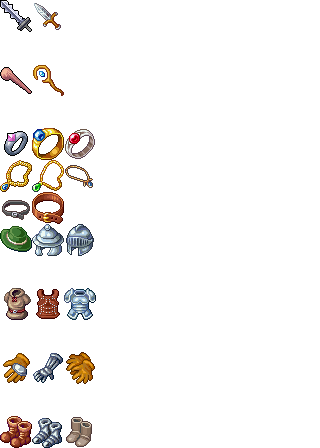
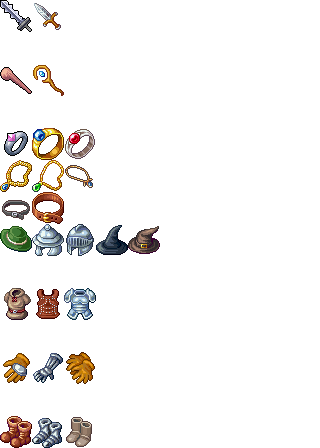
Tweak prices and bonuses of equipment

Changed region(s): [[0.2812, 0.5, 0.5, 0.5938]]

diff --git a/shared/Equipments.ts b/shared/Equipments.ts
@@ -9,10 +9,10 @@ equipments[0] = new BaseEquipment({
     name: "Jagged Sword",
     description: "",
     frame: 0,
-    effects: [{stat: Stat.ATK, value: 15}],
+    effects: [{stat: Stat.ATK, value: 100}, {stat: Stat.DEF, value: 15}],
     slot: EquipmentSlot.WEAPON,
-    effort: 15,
-    minLevel: 5,
+    effort: 45,
+    minLevel: 15,
     classes: [Class.WARRIOR],
 });
 
@@ -22,7 +22,7 @@ equipments[1] = new BaseEquipment({
     name: "Basic staff",
     description: "",
     frame: 20,
-    effects: [{stat: Stat.SPATK, value: 5}],
+    effects: [{stat: Stat.SPATK, value: 10}, {stat: Stat.MP, value: 15}],
     slot: EquipmentSlot.WEAPON,
     effort: 9,
     minLevel: 1,
@@ -35,9 +35,9 @@ equipments[2] = new BaseEquipment({
     name: "Ring of the Soul",
     description: "",
     frame: 40,
-    effects: [{stat: Stat.MP, value: 200}],
+    effects: [{stat: Stat.MP, value: 150}],
     slot: EquipmentSlot.LEFT_RING,
-    effort: 40,
+    effort: 50,
     minLevel: 1,
     classes: [Class.BLACK_MAGE, Class.WHITE_MAGE],
 });
@@ -71,7 +71,7 @@ equipments[5] = new BaseEquipment({
     name: "Dagger",
     description: "",
     frame: 1,
-    effects: [{stat: Stat.ATK, value: 3}],
+    effects: [{stat: Stat.ATK, value: 10}],
     slot: EquipmentSlot.WEAPON,
     effort: 3,
     minLevel: 1,
@@ -83,7 +83,7 @@ equipments[6] = new BaseEquipment({
     name: "Traveler's hat",
     description: "",
     frame: 70,
-    effects: [{stat: Stat.DEF, value: 2}],
+    effects: [{stat: Stat.DEF, value: 10}],
     slot: EquipmentSlot.HELMET,
     effort: 3,
     minLevel: 1,
@@ -94,7 +94,7 @@ equipments[7] = new BaseEquipment({
     name: "Cloth tunic",
     description: "",
     frame: 90,
-    effects: [{stat: Stat.DEF, value: 4}],
+    effects: [{stat: Stat.DEF, value: 10}],
     slot: EquipmentSlot.ARMOR,
     effort: 4,
     minLevel: 1,
@@ -105,7 +105,7 @@ equipments[8] = new BaseEquipment({
     name: "Hardened gloves",
     description: "",
     frame: 110,
-    effects: [{stat: Stat.DEF, value: 10}],
+    effects: [{stat: Stat.DEF, value: 20}, {stat: Stat.SPDEF, value: 10}],
     slot: EquipmentSlot.GLOVES,
     effort: 10,
     minLevel: 5,
@@ -116,7 +116,7 @@ equipments[9] = new BaseEquipment({
     name: "Sturdy boots",
     description: "",
     frame: 130,
-    effects: [{stat: Stat.DEF, value: 8}],
+    effects: [{stat: Stat.DEF, value: 15}, {stat: Stat.SPDEF, value: 15}],
     slot: EquipmentSlot.BOOTS,
     effort: 10,
     minLevel: 5,
@@ -138,7 +138,7 @@ equipments[11] = new BaseEquipment({
     name: "Helmet",
     description: "",
     frame: 71,
-    effects: [{stat: Stat.DEF, value: 15}],
+    effects: [{stat: Stat.DEF, value: 30}, {stat: Stat.SPDEF, value: 5}],
     slot: EquipmentSlot.HELMET,
     effort: 11,
     minLevel: 5,
@@ -150,7 +150,7 @@ equipments[12] = new BaseEquipment({
     name: "Leather armor",
     description: "",
     frame: 91,
-    effects: [{stat: Stat.DEF, value: 16}],
+    effects: [{stat: Stat.DEF, value: 30}, {stat: Stat.SPDEF, value: 10}],
     slot: EquipmentSlot.ARMOR,
     effort: 12,
     minLevel: 5,
@@ -162,7 +162,7 @@ equipments[13] = new BaseEquipment({
     name: "Armored gloves",
     description: "",
     frame: 111,
-    effects: [{stat: Stat.DEF, value: 18}, {stat: Stat.ATK, value: 3}],
+    effects: [{stat: Stat.DEF, value: 50}, {stat: Stat.ATK, value: 10}],
     slot: EquipmentSlot.GLOVES,
     effort: 19,
     minLevel: 10,
@@ -174,7 +174,7 @@ equipments[14] = new BaseEquipment({
     name: "Armored boots",
     description: "",
     frame: 131,
-    effects: [{stat: Stat.DEF, value: 16}],
+    effects: [{stat: Stat.DEF, value: 30}, {stat: Stat.SPDEF, value: 20}],
     slot: EquipmentSlot.BOOTS,
     effort: 15,
     minLevel: 10,
@@ -186,7 +186,7 @@ equipments[15] = new BaseEquipment({
     name: "Light gloves",
     description: "",
     frame: 112,
-    effects: [{stat: Stat.DEF, value: 3}],
+    effects: [{stat: Stat.DEF, value: 10}],
     slot: EquipmentSlot.GLOVES,
     effort: 3,
     minLevel: 1,
@@ -220,7 +220,7 @@ equipments[18] = new BaseEquipment({
     name: "Knight's helmet",
     description: "",
     frame: 72,
-    effects: [{stat: Stat.DEF, value: 30}],
+    effects: [{stat: Stat.DEF, value: 50}, {stat: Stat.SPDEF, value: 20}],
     slot: EquipmentSlot.HELMET,
     effort: 21,
     minLevel: 10,
@@ -232,7 +232,7 @@ equipments[19] = new BaseEquipment({
     name: "Knight's armor",
     description: "",
     frame: 92,
-    effects: [{stat: Stat.DEF, value: 35}],
+    effects: [{stat: Stat.DEF, value: 50}, {stat: Stat.DEF, value: 25}],
     slot: EquipmentSlot.ARMOR,
     effort: 23,
     minLevel: 10,
@@ -244,7 +244,7 @@ equipments[20] = new BaseEquipment({
     name: "Light boots",
     description: "",
     frame: 132,
-    effects: [{stat: Stat.DEF, value: 3}],
+    effects: [{stat: Stat.DEF, value: 10}, {stat: Stat.DEF, value: 10}],
     slot: EquipmentSlot.BOOTS,
     effort: 6,
     minLevel: 1,
@@ -277,11 +277,35 @@ equipments[23] = new BaseEquipment({
     name: "Astral Scepter",
     description: "",
     frame: 21,
-    effects: [{stat: Stat.HP, value: 5}, {stat: Stat.MP, value: 30}, {stat: Stat.DEF, value: 5}, {stat: Stat.SPATK, value: 25}, {stat: Stat.SPDEF, value: 15}],
+    effects: [{stat: Stat.HP, value: 15}, {stat: Stat.MP, value: 30}, {stat: Stat.DEF, value: 5}, {stat: Stat.SPATK, value: 40}, {stat: Stat.SPDEF, value: 30}],
     slot: EquipmentSlot.WEAPON,
     effort: 35,
     minLevel: 10,
     classes: [Class.BLACK_MAGE, Class.WHITE_MAGE],
+});
+
+equipments[24] = new BaseEquipment({
+    id: 24,
+    name: "Sorcerer's Cowl",
+    description: "",
+    frame: 73,
+    effects: [{stat: Stat.HP, value: 15}, {stat: Stat.MP, value: 50}, {stat: Stat.DEF, value: 10}, {stat: Stat.SPATK, value: 25}, {stat: Stat.SPDEF, value: 30}],
+    slot: EquipmentSlot.HELMET,
+    effort: 40,
+    minLevel: 20,
+    classes: [Class.WHITE_MAGE, Class.BLACK_MAGE],
+});
+
+equipments[25] = new BaseEquipment({
+    id: 25,
+    name: "Novice Wizard's Hat",
+    description: "",
+    frame: 74,
+    effects: [{stat: Stat.MP, value: 15}, {stat: Stat.DEF, value: 3}, {stat: Stat.SPATK, value: 5}, {stat: Stat.SPDEF, value: 5}],
+    slot: EquipmentSlot.HELMET,
+    effort: 9,
+    minLevel: 1,
+    classes: [Class.WHITE_MAGE, Class.BLACK_MAGE],
 });
 
 export function getEquipmentById(id:number): BaseEquipment | undefined {

diff --git a/shared/Items.ts b/shared/Items.ts
@@ -13,7 +13,7 @@ items[0] = new BaseItem({
     cooldown: 2,
     target: Target.SELF,
     effects: [{stat: Stat.HP, value: 50}],
-    effort: 1,
+    effort: 0.3,
 });
 
 items[1] = new BaseItem({
@@ -26,7 +26,7 @@ items[1] = new BaseItem({
     cooldown: 3,
     target: Target.SELF,
     effects: [{stat: Stat.MP, value: 10}],
-    effort: 1.5,
+    effort: 0.7,
 });
 
 items[2] = new BaseItem({
@@ -39,7 +39,7 @@ items[2] = new BaseItem({
     cooldown: 8,
     target: Target.SELF,
     effects: [{stat: Stat.HP, value: 250}],
-    effort: 3,
+    effort: 1.5,
 });
 
 items[3] = new BaseItem({
@@ -52,7 +52,7 @@ items[3] = new BaseItem({
     cooldown: 12,
     target: Target.SELF,
     effects: [{stat: Stat.MP, value: 50}],
-    effort: 4,
+    effort: 2,
 });
 
 items[4] = new BaseItem({
@@ -91,7 +91,7 @@ items[6] = new BaseItem({
     cooldown: 15,
     target: Target.SELF,
     effects: [{stat: Stat.HP, value: 250}, {stat: Stat.MP, value: 50}],
-    effort: 9,
+    effort: 7,
 
 });
 
@@ -146,7 +146,7 @@ items[10] = new BaseItem({
     target: Target.SELF,
     effects: [],
     statusRemovals: [StatusEffect.POISON],
-    effort: 1.5,
+    effort: 0.7,
 });
 
 items[11] = new BaseItem({
@@ -174,7 +174,7 @@ items[12] = new BaseItem({
     target: Target.SELF,
     effects: [],
     statusRemovals: [StatusEffect.MUTE],
-    effort: 1.5,
+    effort: 0.7,
 });
 
 export function getConsumableById(id: number): BaseItem | undefined {
